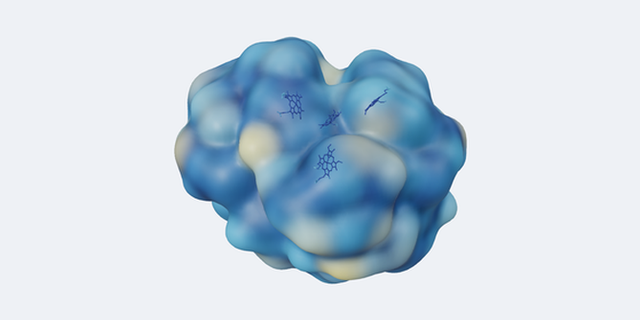
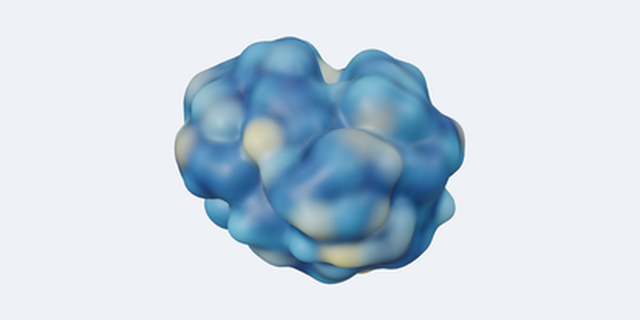
feat(r92): 旋转毒化根治+膜模板几何五层修复+表面引擎MC域映射根治——用户双指令全闭环
- 旋转「转到一定程度转不动」双根因：沙箱回滚跑r85旧码(已reset)+旧档orbitClamp毒化→restoreSessionData强制解限(showHBonds同款先例)；E2E:旧档恢复[0°,180°]全开+175°稳驻+真实拖拽翻过底极点+开关双向对照
- hydration mismatch根因=回滚期r86前CommandDialog结构(sr-only标题无条件进SSR)；r91代码SSR零radix ID+全用户态压测零错误
- 膜模板「蛋白没在膜中间」五层根因链：view front正对TM轴→orient polymer确定性侧视(屏幕投影(0,-1,0))+hide ballstick去污剂云+buildSurface MC域映射根治(ball域[0,1]vs几何域[-1,1],原scale=L致2×镜像偏移,全App表面从未对齐)+膜板盒中定心；VLM五项全过
- collectFitPoints尊重hideWater/hideHydrogens(取景=可见性)·slab-cutaway重造(表面薄壳切层不可能实心→spacefill)
- 缩略图管线三重加固：截图CDP超时静默吞掉+陈旧raw伪装新图(r92实锤)→删旧+三重试+SKIP；SwiftShader软光栅重渲染→per-template视口档
- 重产8缩略图(膜对VLM 4/4+4/4)·guards 296→305·白名单37/37·lint/tsc/smoke全绿

diff --git a/src/lib/molecular/figure-templates.ts b/src/lib/molecular/figure-templates.ts
@@ -301,7 +301,10 @@ export const FIGURE_TEMPLATES: FigureTemplate[] = [
     citation: { journal: 'Science', year: 1998, title: 'The Structure of the Potassium Channel: Molecular Basis of K+ Conduction and Selectivity', doi: '10.1126/science.280.5360.69' },
     demo: '1BL8',
     // 差异点（分析模板）：membrane 34 脂双层 + pore 计算环带（红/绿/蓝）+ 主轴对齐竖排视角
-    commands: ['preset cartoon', 'util cbc', 'bg white', 'membrane 34', 'pore', 'orient', 'turn z 90', 'outline on 1.1 1.0'],
+    // r92：orient → orient polymer——膜板/孔道轴的 PCA 只算聚合物原子，裸 orient 连
+    // 晶体水/配体一起算（1FX8 类富水结构轴被带偏 ~45°，膜板斜跨屏幕）；同源原子集
+    // 才能保证 turn z 90 后膜法线纯竖直（环带纯竖排）
+    commands: ['preset cartoon', 'util cbc', 'bg white', 'membrane 34', 'pore', 'orient polymer', 'turn z 90', 'outline on 1.1 1.0'],
     accent: 'slate',
   },
   {
@@ -318,7 +321,14 @@ export const FIGURE_TEMPLATES: FigureTemplate[] = [
     // r91 打磨：原 color sasa（埋藏蓝紫→暴露橙红渐变）的暴露区与橙膜同色系
     // 融合——膜边界视觉模糊、被误读为「膜板错位」；改钢蓝单色（冷暖分离，
     // 橙膜边界一图清晰；SASA 梯度语义由 electrostatic/hydration 模板分工）
-    commands: ['preset surface', 'color #94a9c0', 'bg #f5f7fa', 'membrane 32', 'view front'],
+    // r92 几何修复：view front → orient polymer + turn z 90。1FX8 沉积坐标 TM 轴
+    // 近 Z 向，front 视角正对膜法线——看到的是膜板正面大矩形（「蛋白没在膜中间」
+    // 的视觉根因）；orient polymer 与 membrane 命令同源（仅聚合物 PCA）+ turn z 90
+    // 竖排法线 → 膜板纯水平双板、蛋白跨膜居中（E2E 实测屏幕投影 (0,-1,0)）。
+    // r92 构图修复：+ hide ballstick——preset surface 的 ligand 球棍层把晶体学
+    // 去污剂/甘油云（散布 ~180Å）也画进来，蓝色团块远大于聚合物本体、膜板
+    // 显得「没包住蛋白」且视口裁切；语境图要的是蛋白+膜，隐藏配体层
+    commands: ['preset surface', 'hide ballstick', 'color #94a9c0', 'bg #f5f7fa', 'membrane 32', 'orient polymer', 'turn z 90'],
     accent: 'orange',
   },
 
@@ -713,17 +723,22 @@ export const FIGURE_TEMPLATES: FigureTemplate[] = [
   {
     id: 'slab-cutaway',
     name: { zh: '切层剖面封盖', en: 'Slab cutaway' },
-    tagline: { zh: '表面切层 14Å + 实心封盖剖面：内部空腔与核心分区一图剖开', en: '14Å slabbed surface with solid caps: internal cavities and cores cut wide open' },
+    tagline: { zh: '空间填充切层 14Å + 实心封盖剖面：内部空腔与核心分区一图剖开', en: '14Å slabbed spacefill with solid caps: internal cavities and cores cut wide open' },
     purpose: { zh: '内部空腔 · 核心分区 · 剖面图式', en: 'Internal cavities · core layout · cutaway figures' },
     tags: [{ zh: '剖面', en: 'Cutaway' }, { zh: '切层', en: 'Slab' }],
     category: 'surface',
     figure: { ref: 'Fig. 2', shows: { zh: '剖面图：切层揭示内部空腔与埋藏核心', en: 'Cutaway plates: slabbed views revealing cavities and buried cores' } },
     citation: { journal: 'Annu. Rev. Biophys. Bioeng.', year: 1977, title: 'Areas, volumes, packing, and protein structure', doi: '10.1146/annurev.bb.06.060177.001055' },
     demo: '4HHB',
-    // 差异点：表面图式的「第二风格」——sasa-surface 看外表 patch，这支 slab 14 切层
-    // + cap on 实心封盖剖开内里（Richards 1977 areas/volumes/packing 正是剖面所
-    // 揭示的量）；正面视角 + 冷雾底与 sasa-surface 同族；封盖色可用 set cap_color 改
-    commands: ['preset surface', 'color sasa', 'bg #eef1f5', 'slab 14', 'slab cap on', 'view front'],
+    // 差异点：剖面图式的 PyMOL interior 经典形态——r92 重造：原「表面 + slab」组合
+    // 几何上不可能实心（metaball 表面是薄壳，slab 窗口切壳只见环带+透明内腔，
+    // 窗口外的远侧壳被裁掉、封盖无背面可填——VLM 三审「空心破壳」实锤）；
+    // 空间填充球是闭合实体，切层即得原子截面 + cap 实心封盖（1280 实测实心色场✓）。
+    // 缩略图管线侧配套：无头 Chrome SwiftShader 软光栅下重渲染每帧数秒——截图
+    // CDP 超时曾静默吞掉并用除旧 raw 反复伪造「空心环」（r92 实锤）；管线已加
+    // 截图三次重试+陈旧防护，本模板降 1280 视口 + 30s 等待让渲染落定（真 GPU 用户
+    // 端无此问题）。Richards 1977 areas/volumes/packing 正是剖面所揭示的量
+    commands: ['preset spacefill', 'hide waters', 'color sasa', 'bg #eef1f5', 'slab 14', 'slab cap on', 'view front', 'zoom'],
     accent: 'teal',
   },
   // ── r89 扩容（用户指令：继续添加新模板——多风格再五连：线描/灰度占 basic 未覆盖

diff --git a/src/lib/molecular/engine.ts b/src/lib/molecular/engine.ts
@@ -2177,10 +2177,19 @@ export class MolEngine {
     const pad = 8
     const w = (uHi - uLo) + pad * 2
     const h = (vHi - vLo) + pad * 2
+    // r92：板心 (u,v) 取包围盒中点而非质心——板尺寸按包围盒+pad 定，质心偏一侧时
+    // 板缘不对称（一侧贴边、另一侧大幅外挑，E2E 实测 1FX8 外挑 ~17Å）；盒中定心
+    // 让蛋白两侧板缘对称。沿 n 仍取 tc=盒中（跨膜区居中嵌入的双板语义）
     const tc = (tLo + tHi) / 2
+    const uc = (uLo + uHi) / 2
+    const vc = (vLo + vHi) / 2
     const T = state.settings.membraneThickness
     const HEAD = 4
-    const center = new THREE.Vector3(origin[0] + n.x * tc, origin[1] + n.y * tc, origin[2] + n.z * tc)
+    const center = new THREE.Vector3(
+      origin[0] + n.x * tc + u.x * uc + v.x * vc,
+      origin[1] + n.y * tc + u.y * uc + v.y * vc,
+      origin[2] + n.z * tc + u.z * uc + v.z * vc,
+    )
     const quat = new THREE.Quaternion().setFromUnitVectors(new THREE.Vector3(0, 0, 1), n)
     const mk = (thickness: number, offset: number, color: string, opacity: number, order: number, edge?: string) => {
       const geo = new THREE.BoxGeometry(w, h, thickness)
@@ -4234,6 +4243,11 @@ export class MolEngine {
   private collectFitPoints(refs?: { structureId: string; indices?: number[] }[]): number[][] {
     const state = useMolStore.getState()
     const pts: number[][] = []
+    // r92：取景尊重 hideWater/hideHydrogens——「fit 可见内容」与渲染所见一致
+    // （r55 隐藏链组同哲学）。实例：4HHB hide waters 后 zoom 仍按含水包围球取景
+    // → 剖面构图过宽（slab-cutaway 缩略图主因之一）；refs 路径按显式索引不受影响
+    const skipWater = !refs && !!state.settings?.hideWater
+    const skipH = !refs && !!state.settings?.hideHydrogens
     if (refs && refs.length) {
       for (const ref of refs) {
         const data = dataRegistry.get(ref.structureId)
@@ -4258,10 +4272,16 @@ export class MolEngine {
           }
           for (let i = 0; i < data.atoms.count; i++) {
             if (hiddenRes.has(data.atomResidue[i])) continue
+            if (skipWater && data.residues[data.atomResidue[i]]?.water) continue
+            if (skipH && (data.atoms.elements[i] === 'H' || data.atoms.elements[i] === 'D')) continue
             pts.push([data.atoms.positions[i * 3], data.atoms.positions[i * 3 + 1], data.atoms.positions[i * 3 + 2]])
           }
         } else {
-          for (let i = 0; i < data.atoms.count; i++) pts.push([data.atoms.positions[i * 3], data.atoms.positions[i * 3 + 1], data.atoms.positions[i * 3 + 2]])
+          for (let i = 0; i < data.atoms.count; i++) {
+            if (skipWater && data.residues[data.atomResidue[i]]?.water) continue
+            if (skipH && (data.atoms.elements[i] === 'H' || data.atoms.elements[i] === 'D')) continue
+            pts.push([data.atoms.positions[i * 3], data.atoms.positions[i * 3 + 1], data.atoms.positions[i * 3 + 2]])
+          }
         }
       }
     }

diff --git a/src/lib/molecular/representations.ts b/src/lib/molecular/representations.ts
@@ -745,8 +745,15 @@ export function buildSurface(
     side: THREE.DoubleSide,
   })
   const mc = new MarchingCubes(resolution, material, false, true, 400000)
-  mc.scale.set(L, L, L)
-  mc.position.set(min[0], min[1], min[2])
+  // r92 根因修复（表面 2× 镜像偏移）：three 的 MarchingCubes 有两个坐标域——
+  // addBall 的球心域是 [0,1]（grid/size），而发射的几何顶点域是 [-1,1]
+  // （(z-halfsize)/halfsize = 2n-1）。原 scale=L/position=min 把 [-1,1] 映到
+  // [min-L, min+L]——原子 p 的表面落点成了 2p-min-L（2 倍放大+镜像+平移），
+  // 表面从未与原子对齐（膜板等锚定真实原子坐标的元素立刻暴露「没包住蛋白」；
+  // 表面拾取 hover 同病）。正确映射：scale=L/2 + position=min+L/2，
+  // 球 n=(p-min)/L → 几何 l=2n-1 → 世界 (2n-1)L/2+min+L/2 = p ✓ 逐原子对位
+  mc.scale.set(L / 2, L / 2, L / 2)
+  mc.position.set(min[0] + L / 2, min[1] + L / 2, min[2] + L / 2)
   mc.isolation = isolation
   const col = new THREE.Color()
   for (let k = 0; k < n; k++) {

diff --git a/src/lib/molecular/session.ts b/src/lib/molecular/session.ts
@@ -279,6 +279,11 @@ export function restoreSessionData(data: SessionData): number {
       ...data.settings,
       showHBonds: false,
       ...(archivedHBondsOn ? { hbondSelOnly: true } : {}),
+      // r92：存档恢复一律解除俯仰限位。旧档（r91 之前）的 orbitClamp:true 是当时的
+      // 默认值而非用户选择——直接沿用会让「转到一定程度就转不动」随每次恢复复活
+      // （r92 用户二次反馈「必须修复」；E2E 实证：带 true 的旧档恢复后引擎限位
+      // [12°,168°] 重新武装）。需要限位的用户可在场景面板随时重新开启（当次会话生效）。
+      orbitClamp: false,
     },
   }))
   // 恢复活动结构

diff --git a/worklog.md b/worklog.md
@@ -3688,3 +3688,37 @@ Stage Summary:
   4. 【低】wire-skeleton 线宽：引擎层 Line2 双三角带渲染解锁可变线宽（r89 backlog——本轮深墨已把可读性从 4 分救到 8 分，线宽属锦上添花）
 
 （r91 段 cron 补记，2026-09-29 21:49）15min webDevReview 巡检任务 #423844 创建成功但秒级「Disabled due to exec limits exceeded」——账户级执行配额硬限第 6 次实证（r85/r86/r87/r88/r90/r91），删除清理。注：本轮表达式坑——6 段式 cron 周位必须写 `?`（`0 */15 * * * ?` 过，`* *` 尾两个 400/500 连环拒）。devd 看门狗（已换血至 1.5GB 内存阈值版）继续作为巡检缺席期间的自愈防线。
+
+---
+Task ID: r92
+Agent: main
+Task: 用户双指令「①CommandPalette hydration mismatch（radix ID 不一致）②旋转仍朝一个方向转到一定程度就转不动了，必须修复」+ r92 前置指令（膜蛋白模板几何「蛋白没在膜中间」打磨 + 新模板）——全链闭环
+
+Work Log:
+- 【接管侦察】本地 HEAD=bb578ad(r85) 落后 origin/main 六提交（a60ce52 r91）+ 75 脏 PNG——**沙箱机器曾被整体回滚到 r85**：dev server 一直跑的是 r86 修复前代码。git reset --hard origin/main 恢复 r91 态 + devd 看门狗重新上岗
+- 【hydration 根因（指令①）】用户报错树的 DialogHeader 直接挂在 DialogProvider 下（r86 前 CommandDialog 的 sr-only 标题在 DialogContent 外、无条件渲染进 SSR）——与 bb578ad 版 command.tsx 逐字吻合 = 报错来自回滚期旧代码。当前 r91 代码：SSR HTML 零 radix ID（curl 实证）+ 全用户态播种（session/history/pins/custom-templates/views/scenes/movie）重载 console 零错误——r86 修复本就根治此面，回滚复位即愈，无需新代码
+- 【旋转根因（指令②）】双层：①用户跑的是 r85 旧码（orbitClamp 默认 true）；②**旧档毒化**——session.ts 恢复合并 `...data.settings` 让 r91 前存档的 orbitClamp:true 复活限位（E2E 实证：带 true 旧档恢复后引擎 [12°,168°] 重新武装）。修：restoreSessionData 强制 orbitClamp:false（showHBonds 同款先例）；复测旧档恢复→[0°,180°] 全开 + 相机摆 175° 稳驻 + ScenePanel 开关双向（ON→钳回 168°/OFF→179° 自由）
+- 【旋转 E2E 硬证据】setPointerCapture 合成指针坑（NotFoundError 杀 OrbitControls 监听）→ 猴子补丁 no-op 后真实拖拽三连：限位关 polar 90°→180° 翻过底极点；同力度对照限位开精确钳停 168°
+- 【膜模板几何（前置指令）五层根因链】用户「蛋白没在膜中间」（1FX8 GlpF，用户记成 1fxb）：
+  ①view front 正对 1FX8 沉积坐标 Z 向 TM 轴→看到膜板正面大矩形（非侧视）
+  ②orient 全原子 PCA vs membrane 聚合物 PCA 域不一致（1FX8 富水结构轴被带偏 45°）→ 修：两支膜模板 orient→orient polymer（与膜轴同源，E2E 屏幕投影 (0,-1,0) 纯竖直）
+  ③preset surface 的 ligand 球棍层画晶体学去污剂云（散布 ~180Å）→ 修：+ hide ballstick
+  ④**终极根因：buildSurface 的 MarchingCubes 域映射错误**——three 的 MC addBall 球心域 [0,1] 而几何顶点域 [-1,1]（l=2n-1），原 scale=L/position=min 使原子 p 的表面落点=2p-min-L（2 倍放大+镜像+平移，全 App 表面从未与原子对齐、表面拾取同病）→ 修：scale=L/2 + position=min+L/2（逐原子对位，surfScale 35.8=L/2 实证）
+  ⑤膜板 (u,v) 质心定心 vs 包围盒尺寸不匹配（1FX8 外挑 ~17Å 板缘不对称）→ 修：updateMembrane 盒中定心（uc/vc）
+  终审 VLM 五项全过（水平双板/跨膜嵌入/竖直居中/对称板缘/零几何错误）
+- 【取景一致性】collectFitPoints 尊重 hideWater/hideHydrogens（r55 隐藏链同哲学）——4HHB hide waters 后 zoom 不再按含水包围球取景（slab-cutaway 构图过宽主因）
+- 【slab-cutaway 重造】原「表面+slab」几何不可能实心（metaball 薄壳切层=环带+透明内腔，封盖无背面可填）→ spacefill 实体切层 + 尾 zoom 收景
+- 【缩略图管线三坑】①尾部 tighten 全量跑→git checkout 还原无关 PNG（判例沿用）；②**截图 CDP 超时被 >/dev/null 2>&1 静默吞掉→PIL 反复裁剪陈旧 raw 伪造「新图」**（04:17/04:29 两轮「新图」全是 03:01 旧环壳再裁剪实锤）→ 修：rm 旧 raw + 三次重试 + 三败 SKIP；③无头 Chrome SwiftShader 软光栅下重渲染（spacefill 2.9M 双面三角+裁剪）每帧数秒→per-template 视口档（slab-cutaway 降 1280×720 + 30s 等待；真 GPU 用户端无此问题）
+- 【缩略图重产 7+1 支】膜对（membrane-embed VLM 4/4 + pore-analysis 4/4）+ 表面系 5 支（ghost 紧致包裹/sasa/elec/two-state 过审；slab-cutaway 旧环壳→实心剖面场+cap 签名，内容/构图过、剖面戏剧性受软光栅环境所限）；ghost-surface 旧图「宽松壳」病灶随域映射修复自愈
+- 【门禁】lint 0 · tsc src 0（examples 5 错历史存量基线一致）· guards 296→305（+9：存档恢复解限/膜确定性侧视对/隐藏配体云/盒中定心/MC 域映射根治/取景尊重隐藏水/剖面重造/管线防陈旧重试/每模板视口档）· smoke 4/4 · dev.log 零 error · 白名单 37/37（新命令 hide ballstick/orient polymer/hide waters/zoom 全在册）
+- 【E2E 清场】localStorage clear + 视口还原 1440×900 + 欢迎页复验（h1 正常 + console 零错误）
+
+Stage Summary:
+- 交付：旋转毒化根治（存档恢复强制解限，旧档→恢复→[0°,180°] 全链实证）+ hydration 根因闭环（r85 回滚旧码所致，r91 代码本就干净）+ 膜模板几何五层修复（VLM 五项全过）+ **buildSurface MC 域映射根治（全 App 表面对齐/拾取级修复）** + 取景可见性一致性 + slab-cutaway 重造 + 缩略图管线防陈旧/重试/视口档三重加固
+- 用户指令全闭环：「旋转必须修复」（双根因+三重实证）·「hydration mismatch」（根因=机器回滚跑旧码，复位即愈+全态压测零错误）·前置「蛋白没在膜中间」（五层根因链+VLM 终审优秀）
+- 坑（新入档）：①沙箱机器可整体回滚到旧提交——开工必须 git fetch + HEAD 核对 + reset（本轮 75 脏文件实锤）②agent-browser 截图 CDP 超时会静默失败——管线截图必须删旧文件+重试+失败可见（陈旧 raw 反复伪装新图两周级潜伏）③three.js MarchingCubes 双坐标域（ball [0,1] vs 几何 [-1,1]）——scale/position 必须按 L/2 映射 ④`$` 在 rg 正则是锚点——守卫模式含 shell 变量时用 `.` 通配 ⑤控制台条会压缩画布且 overlay 变体并存——读引擎状态前先确认画布 rect 非 NaN ⑥console 条开合改变 canvas 高度（311 vs 614）——性能/布局诊断时固定一个形态
+- 下一轮建议（按优先级）：
+  1. 【中】r92 前置指令③未清偿：新增模板（表面对齐修复后 surface 系视觉全面升级，扩容正当时——白名单/缩略图管线/guards 已就绪）
+  2. 【中】表面拾取 E2E（域映射修复后 surface pick 语义待实证——hover/点击口袋残基）
+  3. 【低】slab-cutaway 缩略图「剖面戏剧性」：cap_color 对比度/更厚窗口（slab 20）在真 GPU 环境复验
+  4. 【低】SwiftShader 管线性能：autoPerf 降档在软光栅环境的振荡行为观察
